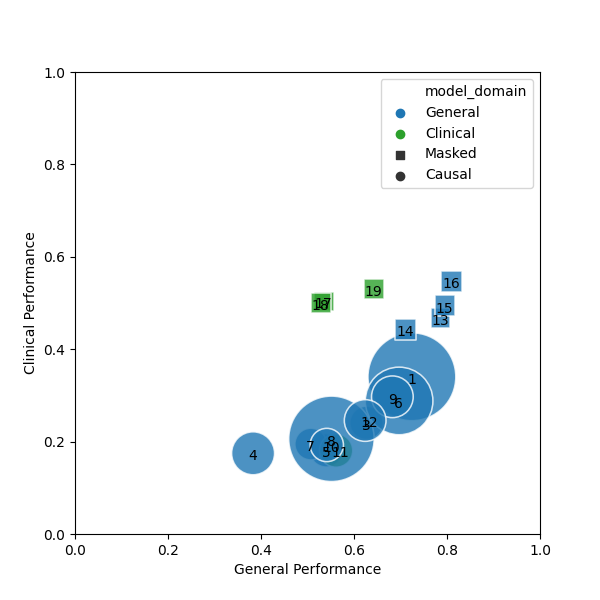
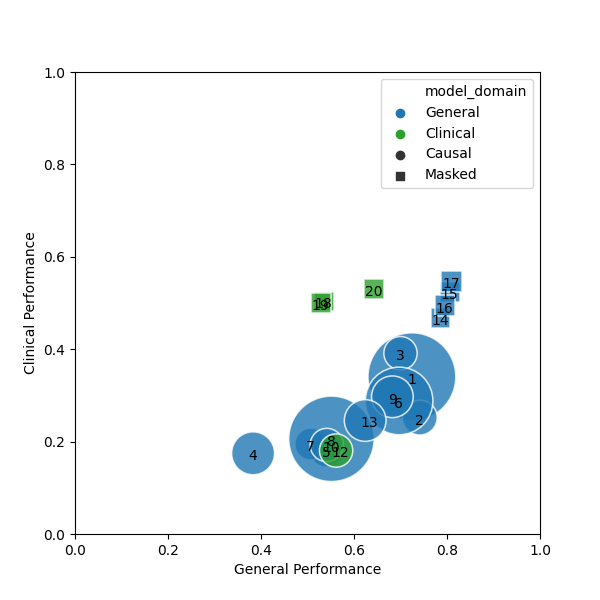
res

diff --git a/tabs_and_plots/model_names_table.tex b/tabs_and_plots/model_names_table.tex
@@ -1,10 +1,10 @@
 \begin{table*}[htbp]
-\centerline{\scalebox{0.8}{
+\centerline{\scalebox{0.75}{
 \begin{tabular}{clp{7cm}rp{3cm}p{10cm}}
 \toprule
 & \# & Model & \makecell[r]{Number of\\ parameters} & Training data size & \makecell[l]{Training corpus} \\
 \midrule[2pt]
-\multirow{12}{*}{\rotatebox[origin=c]{90}{Causal}} & 1 & Llama-2-70B\textsuperscript{\texttt{[en]}} \cite{touvron2023llama} & 70B & 2 trillion tokens & A mix of publicly available online data, mainly in English \\
+\multirow{13}{*}{\rotatebox[origin=c]{90}{Causal}} & 1 & Llama-2-70B\textsuperscript{\texttt{[en]}} \cite{touvron2023llama} & 70B & 2 trillion tokens & A mix of publicly available online data, mainly in English \\
 \cmidrule{2-6}
  & 2 & Llama-3-8B-Instruct\textsuperscript{\texttt{[en]}} & 8B & - & - \\
 \cmidrule{2-6}
@@ -24,41 +24,43 @@
 \cmidrule{2-6}
  & 10 & Vicuna-7B\textsuperscript{\texttt{[en]}}* \cite{zheng2023judging} & 7B & 125K conversations & Llama 2, fine-tuned on conversations collected from ShareGPT.com, mainly in English \\
 \cmidrule{2-6}
- & 11 & Medalpaca-7B\textsuperscript{\texttt{[en]}}* \cite{han2023medalpaca} & 7B & 400K Q.A. pairs & Llama 2, fine-tuned on semi-generated medical question-answer pairs in English \\
+ & 11 & BioMistral-7B\textsuperscript{\texttt{[en]}} & 7B & - & - \\
 \cmidrule{2-6}
- & 12 & Vigogne-13B\textsuperscript{\texttt{[fr]}}\textsuperscript{\texttt{[en]}}* & 13B & 52K instructions & Llama 2, fine-tuned on English instructions automatically translated to French \\
+ & 12 & Medalpaca-7B\textsuperscript{\texttt{[en]}}* \cite{han2023medalpaca} & 7B & 400K Q.A. pairs & Llama 2, fine-tuned on semi-generated medical question-answer pairs in English \\
+\cmidrule{2-6}
+ & 13 & Vigogne-13B\textsuperscript{\texttt{[fr]}}\textsuperscript{\texttt{[en]}}* & 13B & 52K instructions & Llama 2, fine-tuned on English instructions automatically translated to French \\
 \midrule[2pt]
-\multirow{16}{*}{\rotatebox[origin=c]{90}{Masked}} & 13 & mBERT\textsuperscript{\texttt{[en]}}\textsuperscript{\texttt{[fr]}}\textsuperscript{\texttt{[es]}} \cite{devlin2019bert} & 110M & Undisclosed & A corpus featuring 104 languages built from undisclosed sources \\
+\multirow{16}{*}{\rotatebox[origin=c]{90}{Masked}} & 14 & mBERT\textsuperscript{\texttt{[en]}}\textsuperscript{\texttt{[fr]}}\textsuperscript{\texttt{[es]}} \cite{devlin2019bert} & 110M & Undisclosed & A corpus featuring 104 languages built from undisclosed sources \\
 \cmidrule{2-6}
- & 14 & XLM-R-large\textsuperscript{\texttt{[en]}}\textsuperscript{\texttt{[fr]}}\textsuperscript{\texttt{[es]}} \cite{conneau2020unsupervised} & 355M & 2.5 TB & Filtered CommonCrawl data containing 100 languages \\
+ & 15 & XLM-R-large\textsuperscript{\texttt{[en]}}\textsuperscript{\texttt{[fr]}}\textsuperscript{\texttt{[es]}} \cite{conneau2020unsupervised} & 355M & 2.5 TB & Filtered CommonCrawl data containing 100 languages \\
 \cmidrule{2-6}
- & 15 & BERT-large\textsuperscript{\texttt{[en]}} \cite{devlin2019bert} & 345M & 3,3 billion words & BookCorpus \cite{zhu2015aligning}, a dataset consisting of unpublished books and English Wikipedia. \\
+ & 16 & BERT-large\textsuperscript{\texttt{[en]}} \cite{devlin2019bert} & 345M & 3,3 billion words & BookCorpus \cite{zhu2015aligning}, a dataset consisting of unpublished books and English Wikipedia. \\
 \cmidrule{2-6}
- & 16 & RoBERTa-large\textsuperscript{\texttt{[en]}} \cite{liu2019roberta} & 355M & 160 GiB & BooksCorpus \cite{zhu2015aligning}, English Wikipedia, and crawled web data \\
+ & 17 & RoBERTa-large\textsuperscript{\texttt{[en]}} \cite{liu2019roberta} & 355M & 160 GiB & BooksCorpus \cite{zhu2015aligning}, English Wikipedia, and crawled web data \\
 \cmidrule{2-6}
- & 17 & Bio\_ClinicalBERT\textsuperscript{\texttt{[en]}} \cite{alsentzer2019publicly} & 110M & 2 million clinical notes & MIMIC-III \cite{johnson2016mimic}, a database containing electronic health records from hospitalized ICU patients \\
+ & 18 & Bio\_ClinicalBERT\textsuperscript{\texttt{[en]}} \cite{alsentzer2019publicly} & 110M & 2 million clinical notes & MIMIC-III \cite{johnson2016mimic}, a database containing electronic health records from hospitalized ICU patients \\
 \cmidrule{2-6}
- & 18 & ClinicalBERT\textsuperscript{\texttt{[en]}} \cite{wang2023optimized} & 110M & 1.2 billion words & A large multi-center dataset with a corpus built from undisclosed sources \\
+ & 19 & ClinicalBERT\textsuperscript{\texttt{[en]}} \cite{wang2023optimized} & 110M & 1.2 billion words & A large multi-center dataset with a corpus built from undisclosed sources \\
 \cmidrule{2-6}
- & 19 & MedBERT\textsuperscript{\texttt{[en]}} \cite{charangan2022medbert} & 110M & 57 million words & Community datasets (including N2C2 \cite{luo2020n2c2}) and Crawled medical-related articles from Wikipedia \\
+ & 20 & MedBERT\textsuperscript{\texttt{[en]}} \cite{charangan2022medbert} & 110M & 57 million words & Community datasets (including N2C2 \cite{luo2020n2c2}) and Crawled medical-related articles from Wikipedia \\
 \cmidrule{2-6}
- & 20 & CamemBERT-large\textsuperscript{\texttt{[fr]}} \cite{martin2019camembert} & 335M & 64 billion tokens & OSCAR \cite{suarez2020monolingual}, a corpus of web data in French \\
+ & 21 & CamemBERT-large\textsuperscript{\texttt{[fr]}} \cite{martin2019camembert} & 335M & 64 billion tokens & OSCAR \cite{suarez2020monolingual}, a corpus of web data in French \\
 \cmidrule{2-6}
- & 21 & FlauBERT-large\textsuperscript{\texttt{[fr]}} \cite{le2019flaubert} & 335M & 13 billion tokens & A mix of French Wikipedia, French books, and French web data \\
+ & 22 & FlauBERT-large\textsuperscript{\texttt{[fr]}} \cite{le2019flaubert} & 335M & 13 billion tokens & A mix of French Wikipedia, French books, and French web data \\
 \cmidrule{2-6}
- & 22 & DrBERT-4GB\textsuperscript{\texttt{[fr]}} \cite{labrak2023drbert} & 110M & 1 billion words & A mix of publicly available biomedical corpora in French (including QuaeroFrenchMed \cite{neveol2014quaero}). \\
+ & 23 & DrBERT-4GB\textsuperscript{\texttt{[fr]}} \cite{labrak2023drbert} & 110M & 1 billion words & A mix of publicly available biomedical corpora in French (including QuaeroFrenchMed \cite{neveol2014quaero}). \\
 \cmidrule{2-6}
- & 23 & CamemBERT-bio\textsuperscript{\texttt{[fr]}} \cite{touchent2023camembertbio} & 110M & 413 million words & A mix of publicly available biomedical corpora in French (including E3C \cite{magnini2021e3c}). \\
+ & 24 & CamemBERT-bio\textsuperscript{\texttt{[fr]}} \cite{touchent2023camembertbio} & 110M & 413 million words & A mix of publicly available biomedical corpora in French (including E3C \cite{magnini2021e3c}). \\
 \cmidrule{2-6}
- & 24 & BETO\textsuperscript{\texttt{[es]}} \cite{canete2020beto} & 110M & 3 billion words & Spanish Wikipedia and Spanish data from OPUS \cite{tiedemann2012parallel} \\
+ & 25 & BETO\textsuperscript{\texttt{[es]}} \cite{canete2020beto} & 110M & 3 billion words & Spanish Wikipedia and Spanish data from OPUS \cite{tiedemann2012parallel} \\
 \cmidrule{2-6}
- & 25 & PatanaBERT\textsuperscript{\texttt{[es]}} & 110M & Undisclosed & Spanish \\
+ & 26 & PatanaBERT\textsuperscript{\texttt{[es]}} & 110M & Undisclosed & Spanish \\
 \cmidrule{2-6}
- & 26 & TulioBERT\textsuperscript{\texttt{[es]}} & 110M & Undisclosed & Spanish \\
+ & 27 & TulioBERT\textsuperscript{\texttt{[es]}} & 110M & Undisclosed & Spanish \\
 \cmidrule{2-6}
- & 27 & BSC-BioEHR\textsuperscript{\texttt{[es]}} \cite{carrino2022pretrained} & 110M & 1.1 billion tokens & A mixture of biomedical community datasets including EHR documents and crawled data in Spanish \\
+ & 28 & BSC-BioEHR\textsuperscript{\texttt{[es]}} \cite{carrino2022pretrained} & 110M & 1.1 billion tokens & A mixture of biomedical community datasets including EHR documents and crawled data in Spanish \\
 \cmidrule{2-6}
- & 28 & BSC-Bio\textsuperscript{\texttt{[es]}} \cite{carrino2022pretrained} & 110M & 963 million tokens & A mixture of biomedical community datasets and crawled data in Spanish \\
+ & 29 & BSC-Bio\textsuperscript{\texttt{[es]}} \cite{carrino2022pretrained} & 110M & 963 million tokens & A mixture of biomedical community datasets and crawled data in Spanish \\
 \bottomrule
 \end{tabular}}}
 \caption{Characterization of the language models used in our experiments in terms of parameters and training corpus. Models marked with \textsuperscript{\texttt{[en]}} (respectively \textsuperscript{\texttt{[fr]}}, \textsuperscript{\texttt{[es]}}) are heavily trained on English (respectively French, Spanish). CLMs marked with * are fine-tuned versions of other CLMs.}

diff --git a/tabs_and_plots/results_table.tex b/tabs_and_plots/results_table.tex
@@ -8,35 +8,36 @@
 \midrule
  \multicolumn{17}{l}{\textit{Few-shot approaches}} \\
 \midrule
-\multirow{12}{*}{\rotatebox[origin=c]{90}{Causal}} & 1 & Llama-2-70B & 0.728 & 0.721 & 0.312 & 0.309 & 0.400 & 0.740 & 0.400 & 0.483 & 0.201 & 0.312 & 0.805 & 0.616 & 0.021 & 0.339 \\
- & 2 & Llama-3-8B-Instruct & - & 0.727 & - & - & - & - & - & - & 0.443 & 0.433 & - & - & - & - \\
+\multirow{13}{*}{\rotatebox[origin=c]{90}{Causal}} & 1 & Llama-2-70B & 0.728 & 0.721 & 0.312 & 0.309 & 0.400 & 0.740 & 0.400 & 0.483 & 0.201 & 0.312 & 0.805 & 0.616 & 0.021 & 0.339 \\
+ & 2 & Llama-3-8B-Instruct & 0.756 & 0.727 & - & 0.252 & - & 0.796 & 0.508 & - & 0.443 & 0.433 & - & - & - & - \\
  & 3 & Mistral-7B & 0.754 & 0.646 & 0.488 & 0.291 & 0.395 & 0.727 & 0.428 & 0.590 & 0.229 & 0.333 & 0.720 & 0.707 & 0.083 & 0.374 \\
- & 4 & Phi-3-medium-instruct & 0.464 & 0.302 & 0.234 & 0.112 & 0.178 & 0.394 & - & 0.317 & 0.139 & 0.161 & - & 0.461 & 0.045 & 0.280 \\
+ & 4 & Phi-3-medium-instruct & 0.464 & 0.302 & 0.234 & 0.112 & 0.178 & 0.394 & 0.322 & 0.317 & 0.139 & 0.161 & 0.612 & 0.461 & 0.045 & 0.280 \\
  & 5 & BLOOM-7B1 & 0.524 & 0.557 & 0.279 & 0.113 & 0.151 & 0.148 & 0.206 & 0.320 & 0.197 & 0.120 & 0.470 & 0.419 & 0.051 & 0.117 \\
  & 6 & Falcon-40B & 0.686 & 0.708 & 0.280 & 0.279 & 0.305 & 0.662 & 0.456 & 0.378 & 0.279 & 0.283 & 0.720 & 0.543 & 0.072 & 0.267 \\
  & 7 & GPT-J-6B & 0.521 & 0.493 & 0.167 & 0.179 & 0.238 & 0.423 & 0.244 & 0.334 & 0.080 & 0.177 & 0.005 & 0.142 & 0.021 & 0.162 \\
  & 8 & OPT-66B & 0.608 & 0.495 & 0.227 & 0.157 & 0.234 & 0.624 & 0.406 & 0.019 & 0.206 & 0.283 & 0.166 & 0.273 & 0.043 & 0.204 \\
  & 9 & Vicuna-13B & 0.657 & 0.708 & 0.355 & 0.236 & 0.300 & 0.677 & 0.350 & 0.399 & 0.207 & 0.326 & 0.744 & 0.250 & 0.040 & 0.213 \\
  & 10 & Vicuna-7B & 0.594 & 0.489 & 0.259 & 0.147 & 0.172 & 0.591 & 0.277 & 0.439 & 0.152 & 0.296 & 0.659 & 0.569 & 0.042 & 0.151 \\
- & 11 & Medalpaca-7B & 0.537 & 0.586 & 0.272 & 0.138 & 0.132 & 0.529 & 0.142 & 0.259 & 0.161 & 0.252 & 0.581 & 0.490 & 0.088 & 0.220 \\
- & 12 & Vigogne-13B & 0.593 & 0.655 & 0.252 & 0.176 & 0.309 & 0.515 & 0.250 & 0.464 & 0.099 & 0.142 & 0.580 & 0.561 & 0.010 & 0.198 \\
+ & 11 & BioMistral-7B & - & 0.354 & - & - & - & - & - & - & - & - & - & - & - & - \\
+ & 12 & Medalpaca-7B & 0.537 & 0.586 & 0.272 & 0.138 & 0.132 & 0.529 & 0.142 & 0.259 & 0.162 & 0.252 & 0.581 & 0.490 & 0.088 & 0.220 \\
+ & 13 & Vigogne-13B & 0.593 & 0.655 & 0.252 & 0.176 & 0.309 & 0.515 & 0.250 & 0.464 & 0.099 & 0.142 & 0.580 & 0.561 & 0.010 & 0.198 \\
 \midrule
-\multirow{16}{*}{\rotatebox[origin=c]{90}{Masked}} & 13 & mBERT & 0.768 & 0.804 & 0.624 & 0.378 & 0.401 & 0.801 & 0.728 & 0.741 & 0.588 & 0.428 & 0.812 & 0.760 & 0.324 & 0.432 \\
- & 14 & XLM-R-large & 0.786 & 0.826 & 0.637 & 0.462 & 0.471 & 0.811 & 0.781 & 0.762 & 0.629 & 0.531 & 0.797 & 0.781 & 0.325 & 0.528 \\
- & 15 & BERT-large & 0.776 & 0.814 & 0.626 & 0.435 & 0.422 & - & - & - & - & - & - & - & - & - \\
- & 16 & RoBERTa-large & 0.790 & 0.829 & 0.626 & 0.462 & 0.552 & - & - & - & - & - & - & - & - & - \\
- & 17 & Bio\_ClinicalBERT & 0.528 & 0.542 & 0.621 & 0.469 & 0.420 & - & - & - & - & - & - & - & - & - \\
- & 18 & ClinicalBERT & 0.462 & 0.597 & 0.622 & 0.480 & 0.397 & - & - & - & - & - & - & - & - & - \\
- & 19 & MedBERT & 0.613 & 0.673 & 0.607 & 0.478 & 0.504 & - & - & - & - & - & - & - & - & - \\
- & 20 & CamemBERT-large & - & - & - & - & - & 0.829 & 0.793 & 0.768 & 0.661 & 0.564 & - & - & - & - \\
- & 21 & FlauBERT-large & - & - & - & - & - & 0.826 & 0.778 & 0.760 & 0.635 & 0.540 & - & - & - & - \\
- & 22 & DrBERT-4GB & - & - & - & - & - & 0.587 & 0.599 & 0.730 & 0.602 & 0.497 & - & - & - & - \\
- & 23 & CamemBERT-bio & - & - & - & - & - & 0.782 & 0.761 & 0.779 & 0.636 & 0.557 & - & - & - & - \\
- & 24 & BETO & - & - & - & - & - & - & - & - & - & - & 0.794 & 0.732 & 0.352 & 0.522 \\
- & 25 & PatanaBERT & - & - & - & - & - & - & - & - & - & - & 0.802 & 0.769 & 0.343 & 0.487 \\
- & 26 & TulioBERT & - & - & - & - & - & - & - & - & - & - & 0.804 & 0.798 & 0.340 & 0.482 \\
- & 27 & BSC-BioEHR & - & - & - & - & - & - & - & - & - & - & 0.804 & 0.758 & 0.354 & 0.578 \\
- & 28 & BSC-Bio & - & - & - & - & - & - & - & - & - & - & 0.804 & 0.775 & 0.358 & 0.552 \\
+\multirow{16}{*}{\rotatebox[origin=c]{90}{Masked}} & 14 & mBERT & 0.768 & 0.804 & 0.624 & 0.378 & 0.401 & 0.801 & 0.728 & 0.741 & 0.588 & 0.428 & 0.812 & 0.760 & 0.324 & 0.432 \\
+ & 15 & XLM-R-large & 0.786 & 0.826 & 0.637 & 0.462 & 0.471 & 0.811 & 0.781 & 0.762 & 0.629 & 0.531 & 0.797 & 0.781 & 0.325 & 0.528 \\
+ & 16 & BERT-large & 0.776 & 0.814 & 0.626 & 0.435 & 0.422 & - & - & - & - & - & - & - & - & - \\
+ & 17 & RoBERTa-large & 0.790 & 0.829 & 0.626 & 0.462 & 0.552 & - & - & - & - & - & - & - & - & - \\
+ & 18 & Bio\_ClinicalBERT & 0.528 & 0.542 & 0.621 & 0.469 & 0.420 & - & - & - & - & - & - & - & - & - \\
+ & 19 & ClinicalBERT & 0.462 & 0.597 & 0.622 & 0.480 & 0.397 & - & - & - & - & - & - & - & - & - \\
+ & 20 & MedBERT & 0.613 & 0.673 & 0.607 & 0.478 & 0.504 & - & - & - & - & - & - & - & - & - \\
+ & 21 & CamemBERT-large & - & - & - & - & - & 0.829 & 0.793 & 0.768 & 0.661 & 0.564 & - & - & - & - \\
+ & 22 & FlauBERT-large & - & - & - & - & - & 0.826 & 0.778 & 0.760 & 0.635 & 0.540 & - & - & - & - \\
+ & 23 & DrBERT-4GB & - & - & - & - & - & 0.587 & 0.599 & 0.730 & 0.602 & 0.497 & - & - & - & - \\
+ & 24 & CamemBERT-bio & - & - & - & - & - & 0.782 & 0.761 & 0.779 & 0.636 & 0.557 & - & - & - & - \\
+ & 25 & BETO & - & - & - & - & - & - & - & - & - & - & 0.794 & 0.732 & 0.352 & 0.522 \\
+ & 26 & PatanaBERT & - & - & - & - & - & - & - & - & - & - & 0.802 & 0.769 & 0.343 & 0.487 \\
+ & 27 & TulioBERT & - & - & - & - & - & - & - & - & - & - & 0.804 & 0.798 & 0.340 & 0.482 \\
+ & 28 & BSC-BioEHR & - & - & - & - & - & - & - & - & - & - & 0.804 & 0.758 & 0.354 & 0.578 \\
+ & 29 & BSC-Bio & - & - & - & - & - & - & - & - & - & - & 0.804 & 0.775 & 0.358 & 0.552 \\
 \midrule
 \midrule
 \multicolumn{17}{l}{\textit{Masked fully-supervised (skyline)}} \\
